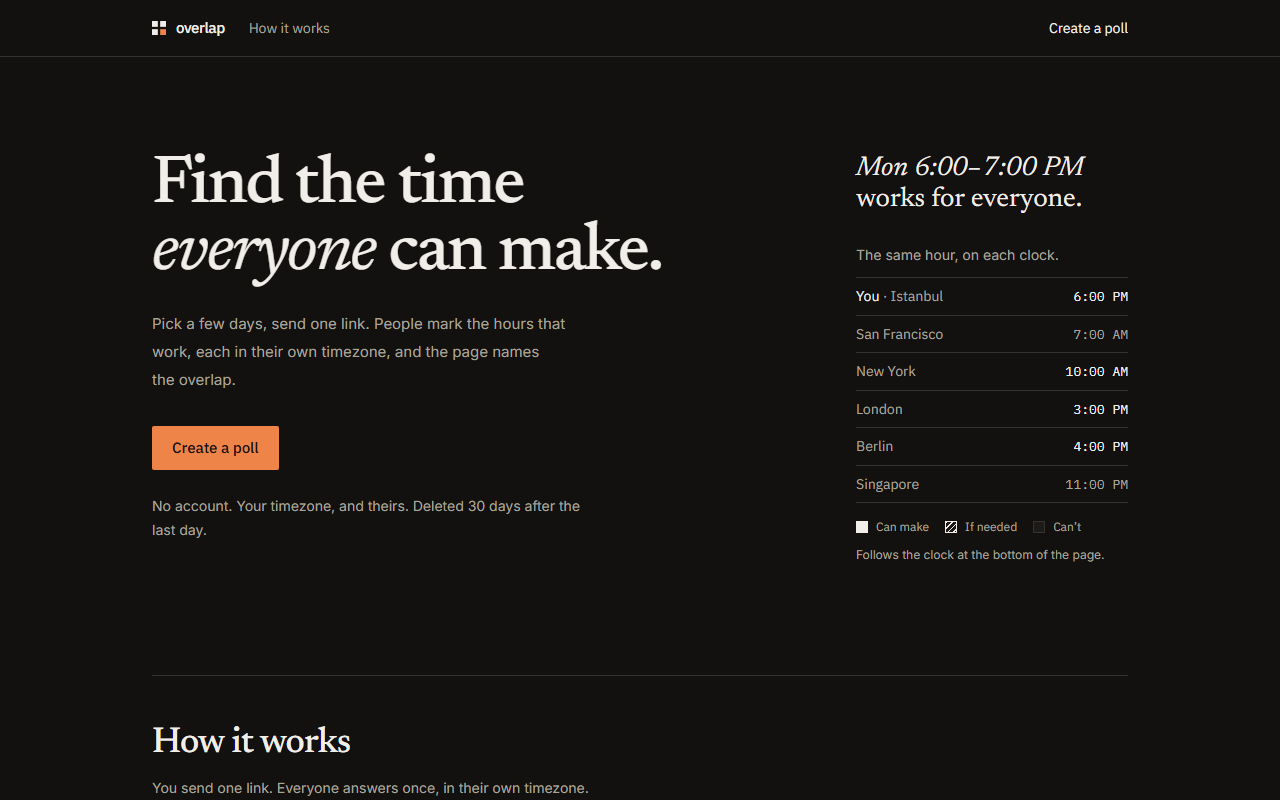
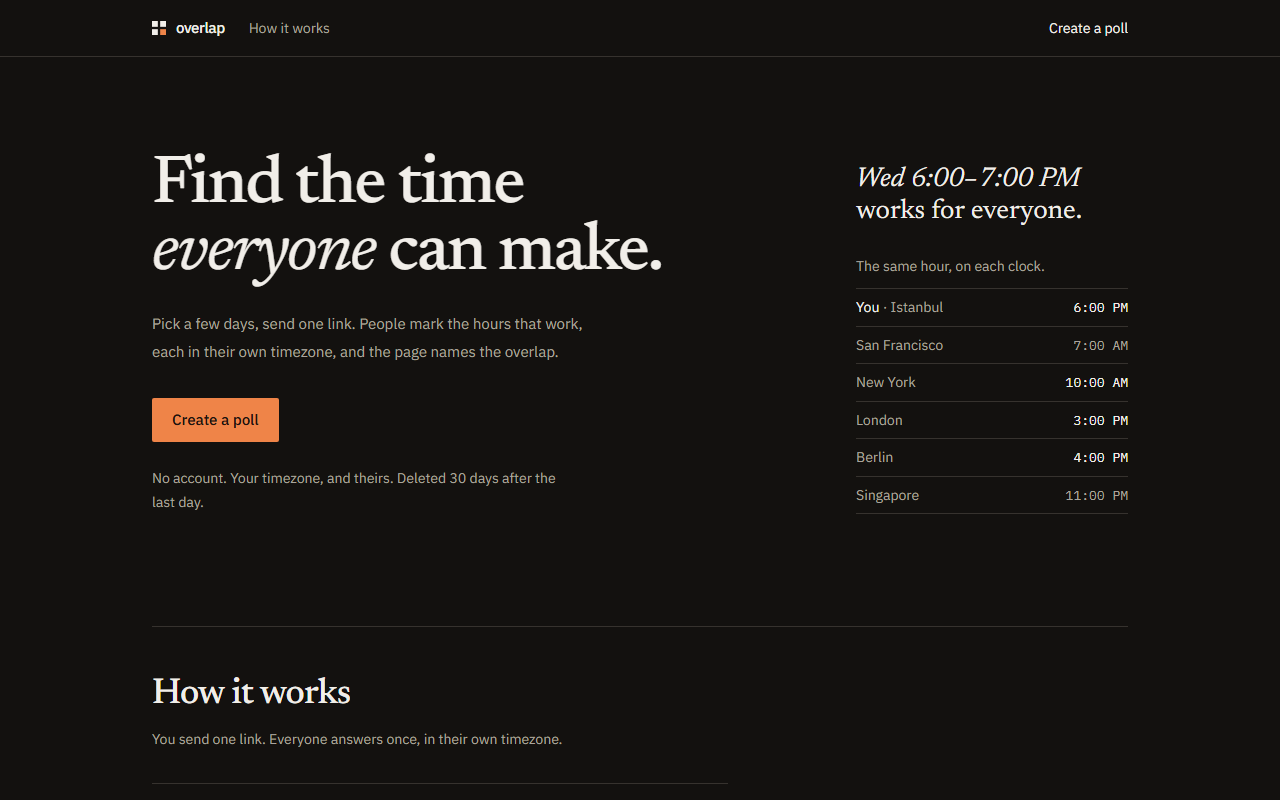
Update README screenshots

diff --git a/README.md b/README.md
@@ -75,7 +75,7 @@ The whole app runs on a single Cloudflare Worker. A few decisions I'd point out:
 - **Abuse protection without accounts.** Creating a poll and answering one for the first time are checked with Turnstile, which stays invisible unless it needs a click and only loads once its form is on screen. Later edits are tied to the voter's cookie, so they skip the check. Writes are rate limited per network with Cloudflare's rate limiter, keyed by a hash of the address.
 - **Locked down by default.** Every response has a Content Security Policy, HSTS and anti-framing headers.
 
-Built with Next.js 16, React 19, Tailwind CSS 4, TypeScript 7, Drizzle ORM, Cloudflare Workers, D1, Durable Objects and Turnstile. Styling is Tailwind utilities only: shared variants live in `src/components/ui/styles.ts` (class-variance-authority), and toggles use Base UI for keyboard and pressed-state handling. Bun runs the installs and the tests.
+Built with Next.js 16, React 19, Tailwind CSS 4, TypeScript 6, Drizzle ORM, Cloudflare Workers, D1, Durable Objects and Turnstile. Styling is Tailwind utilities only: shared variants live in `src/components/ui/styles.ts` (class-variance-authority), and toggles use Base UI for keyboard and pressed-state handling. Bun runs the installs and the tests.
 
 ## Project layout
 
